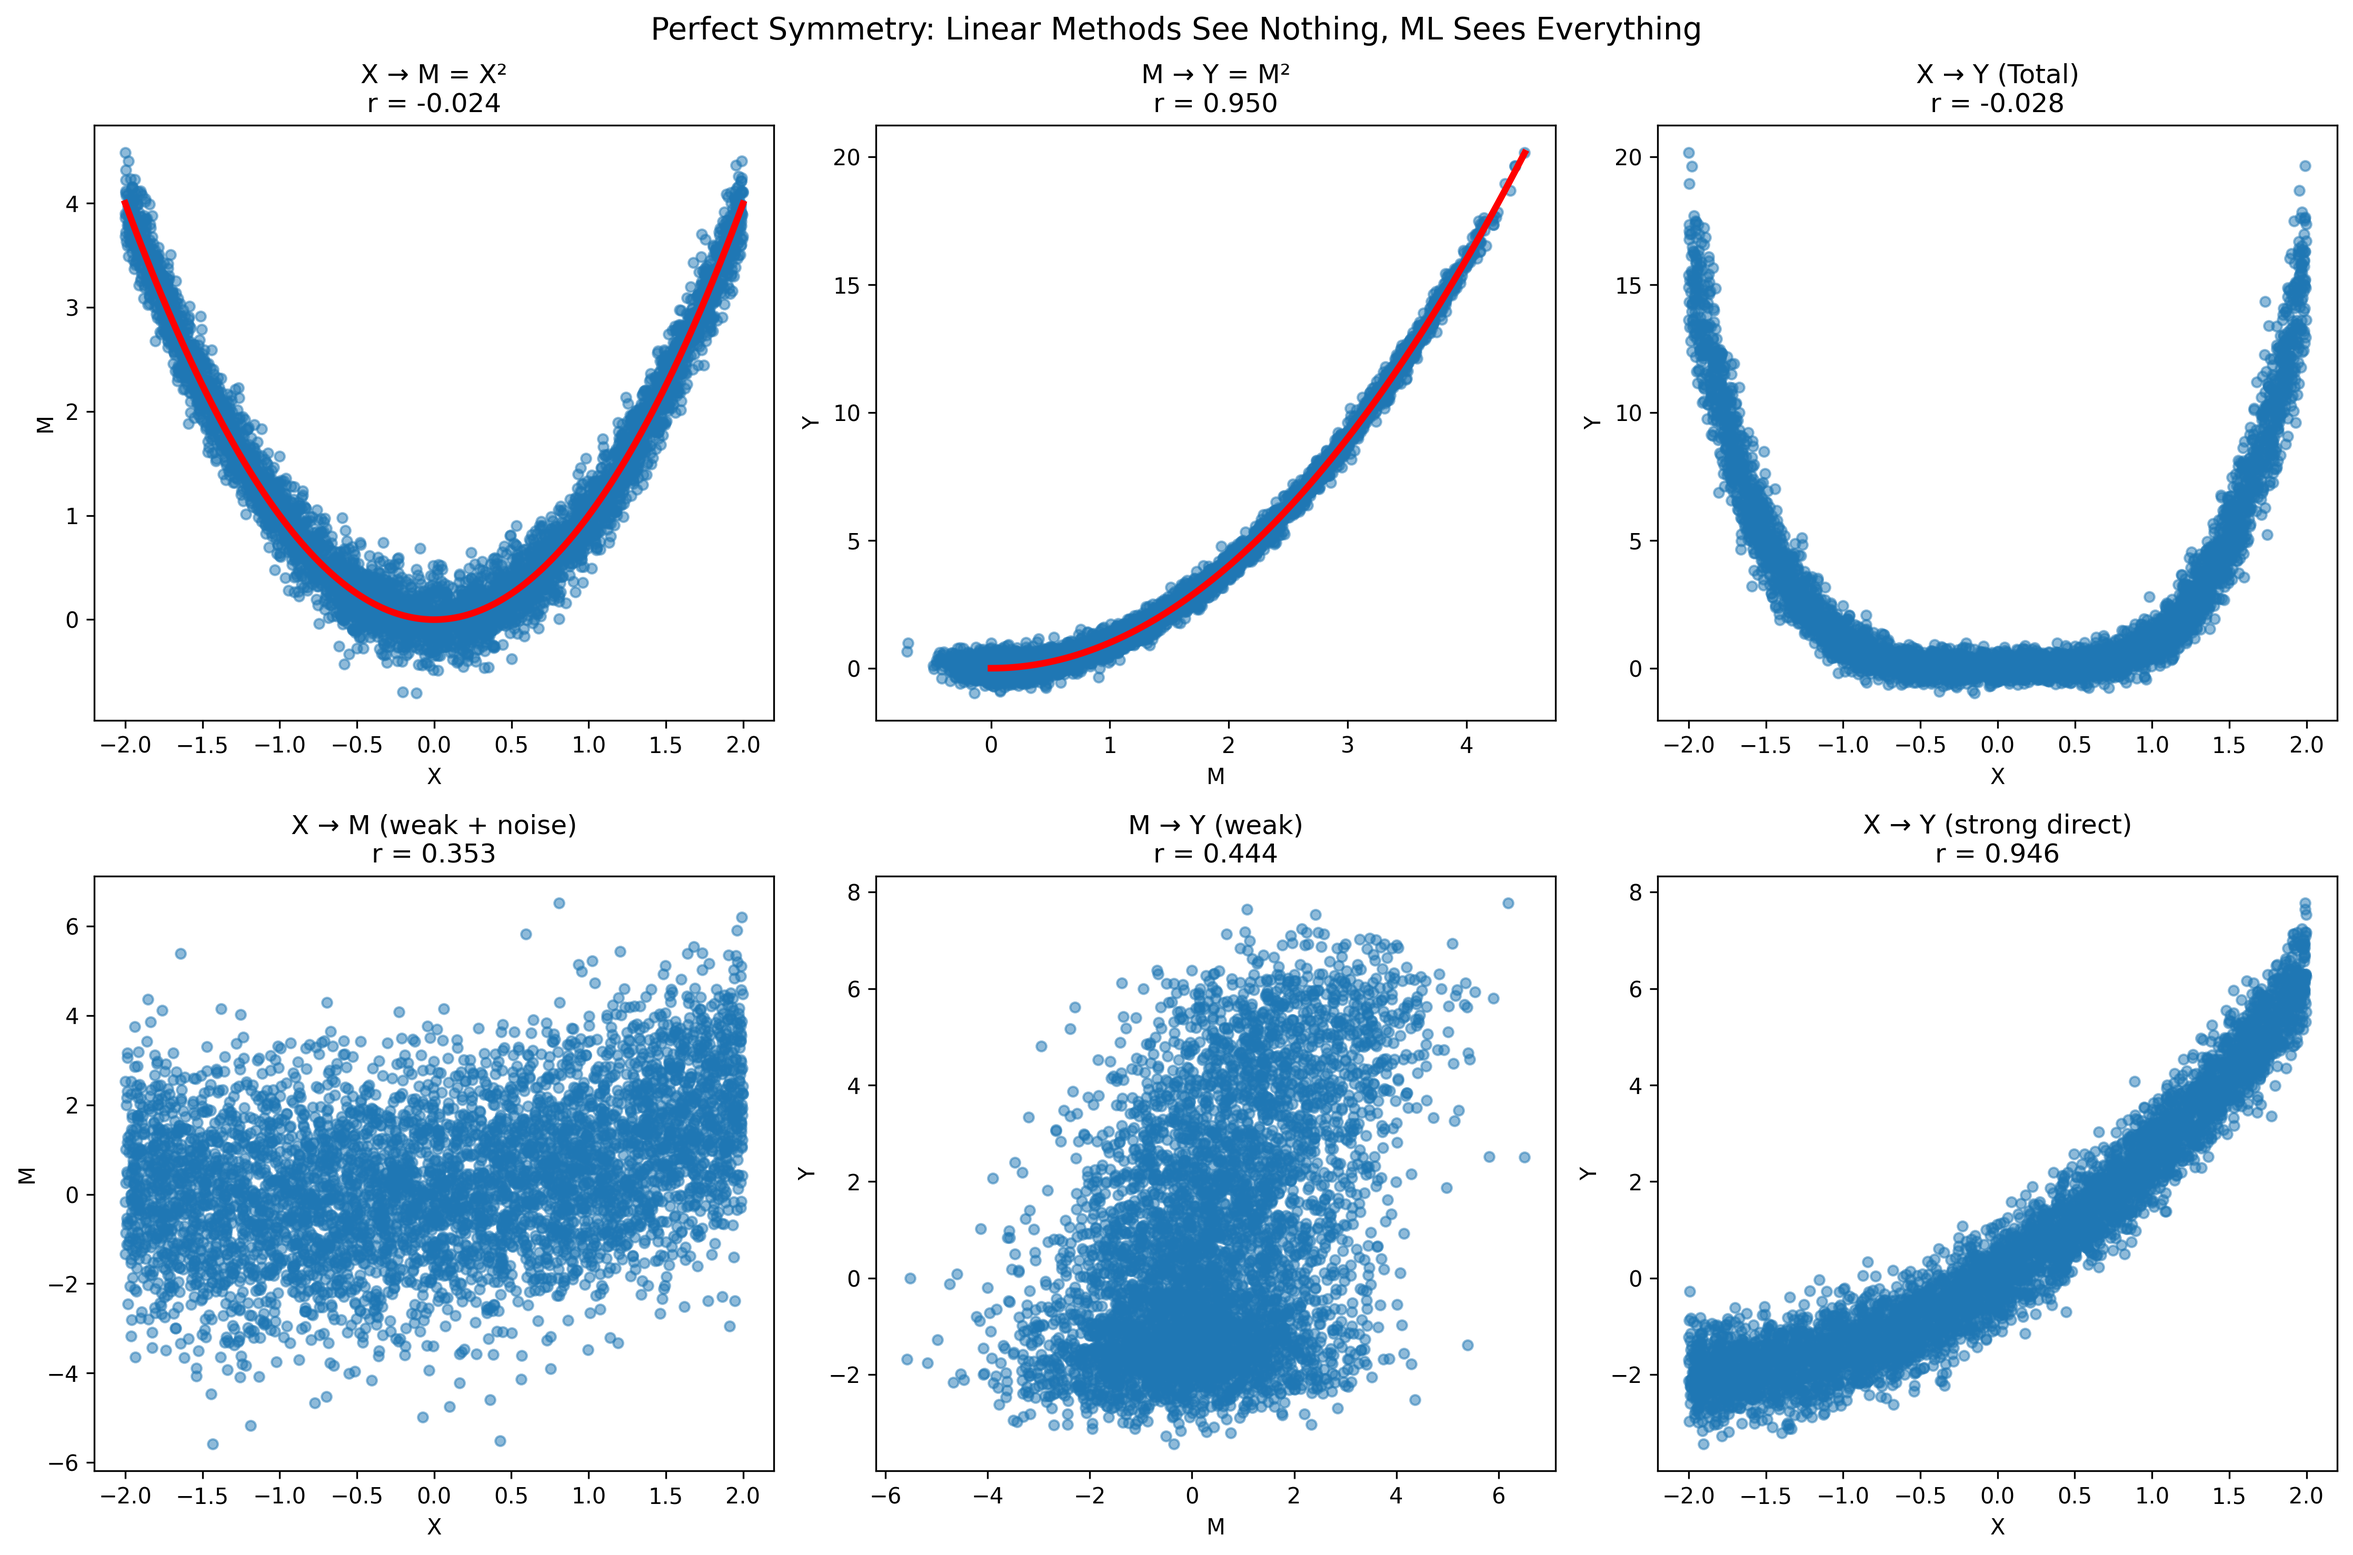
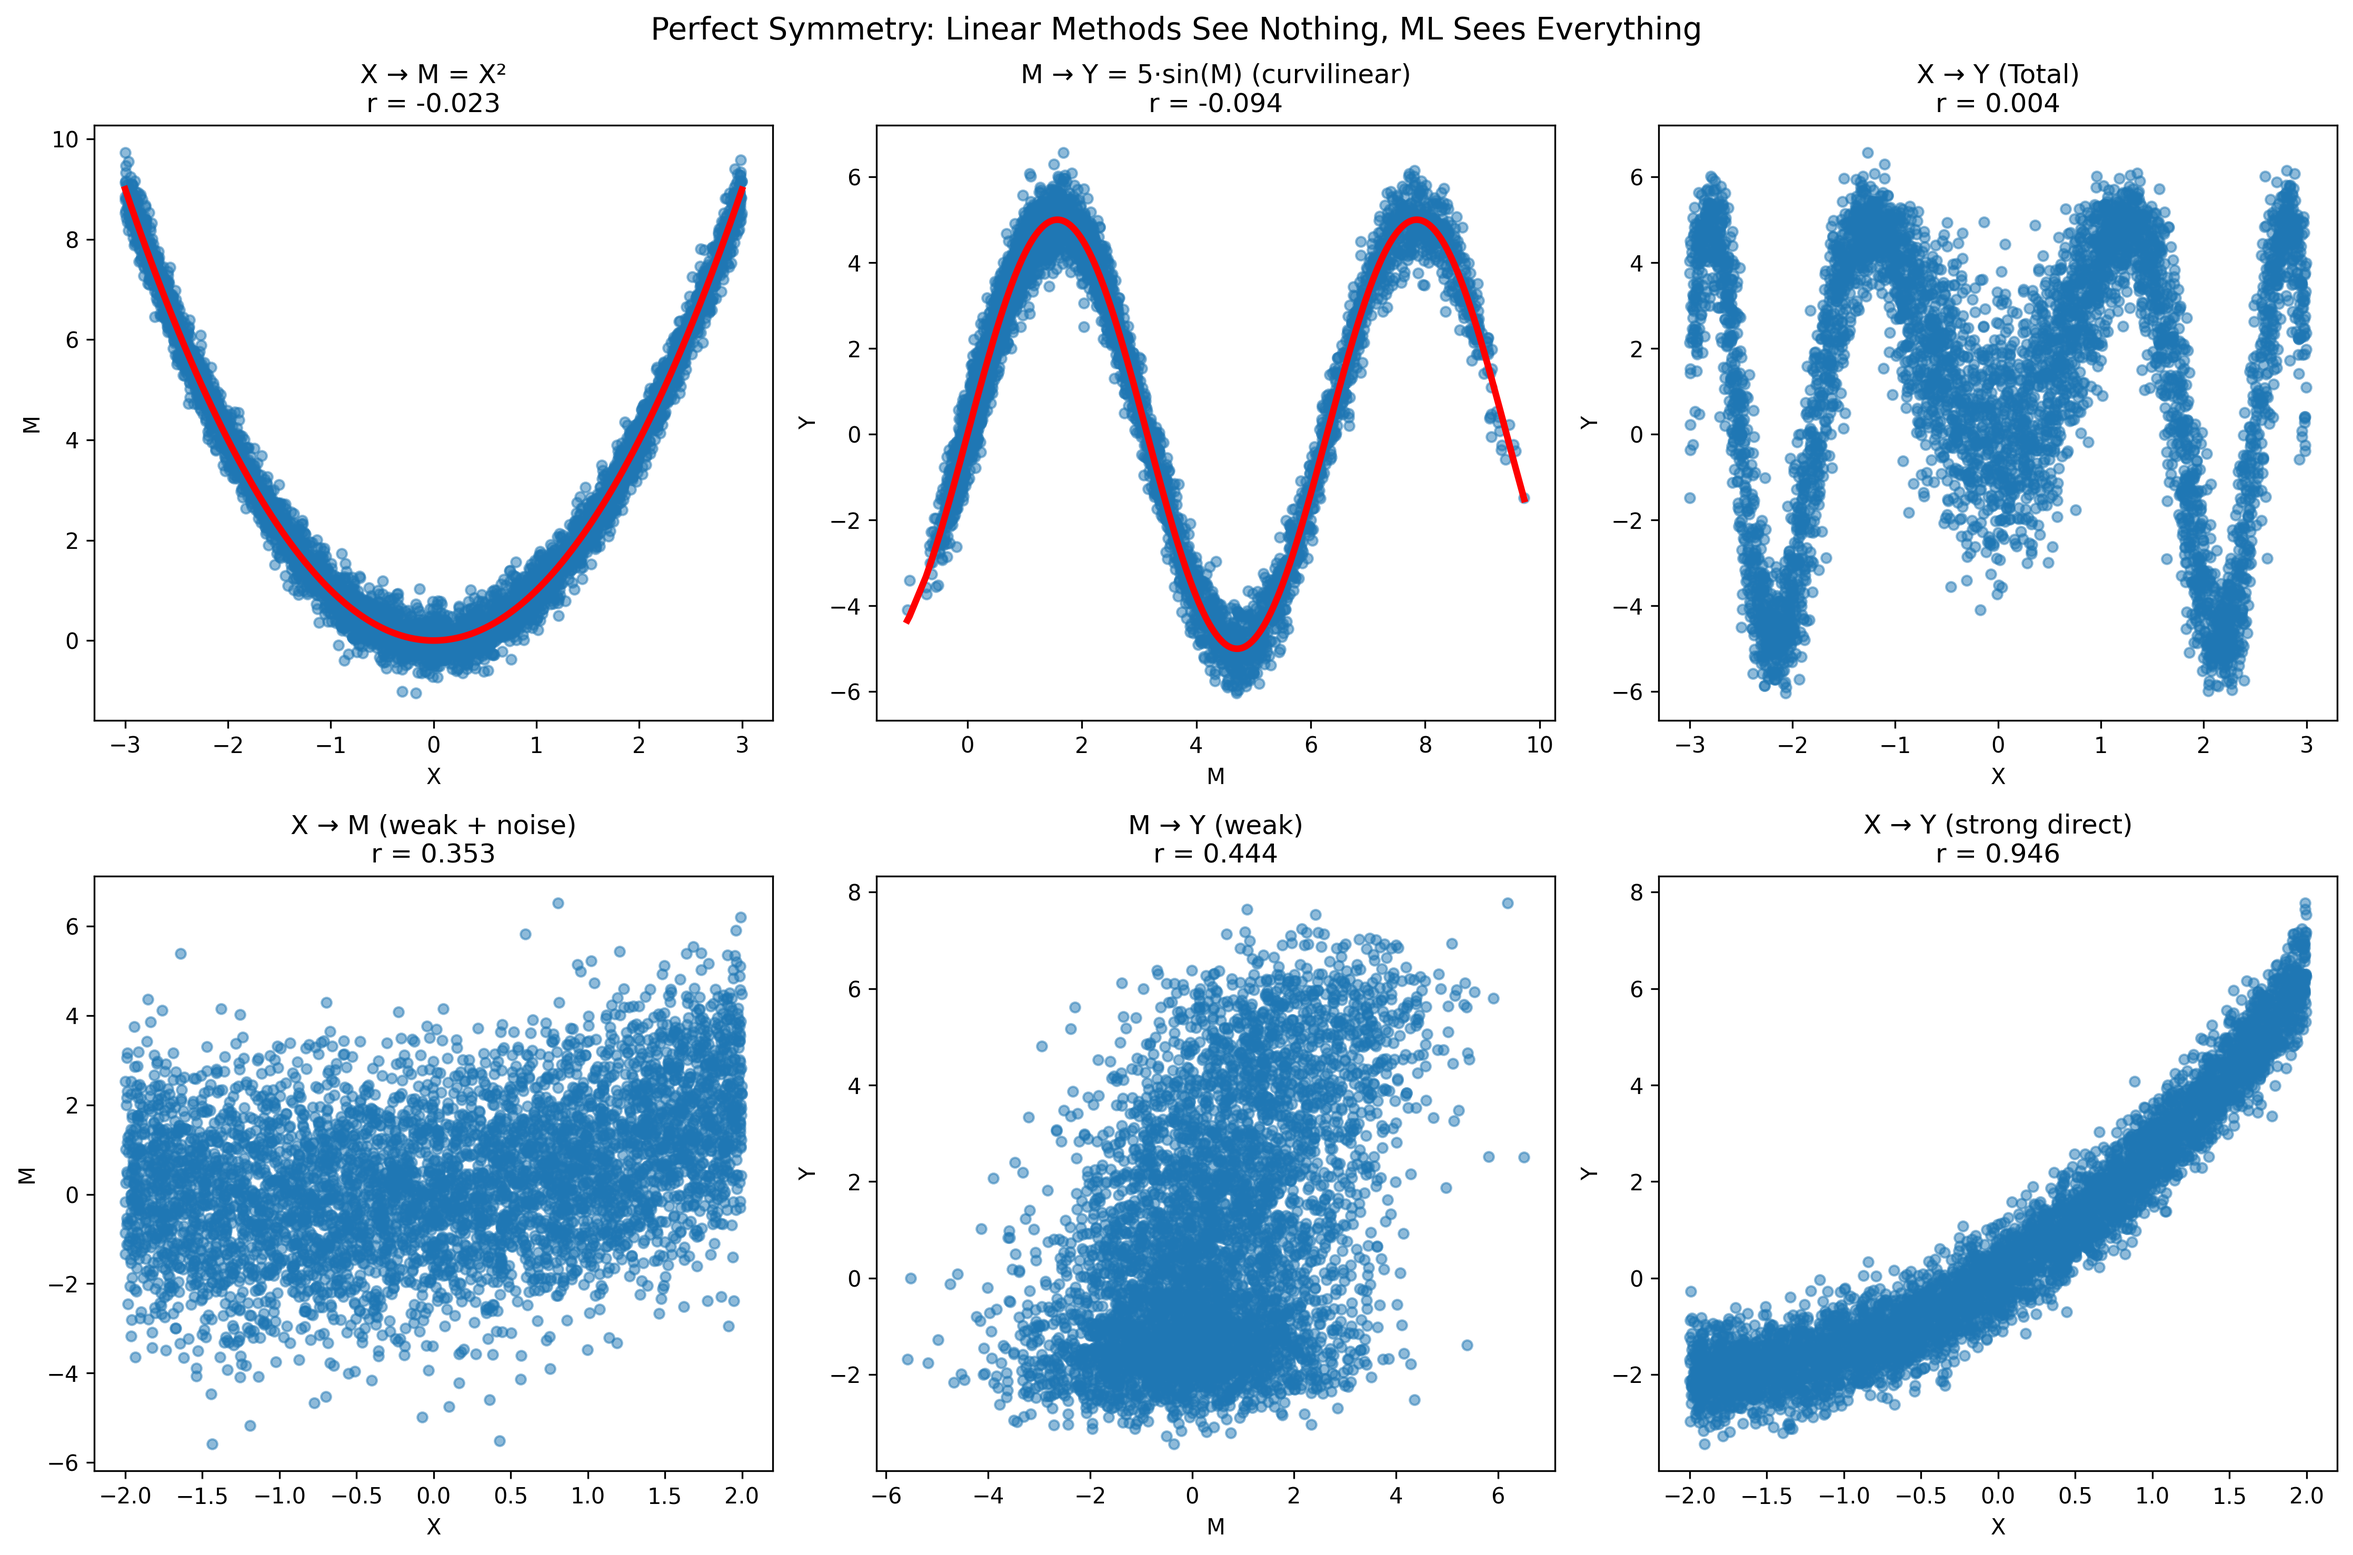
Fix M→Y to be truly curvilinear with ~0 correlation
- Changed Y = 5·sin(M) to create oscillating curvilinear relationship
- This gives Corr(M,Y) ≈ -0.09 (close to 0) vs previous 0.95
- Now BOTH X→M and M→Y are curvilinear with ~0 correlation
- Linear methods see nothing while ML correctly detects mediation

🤖 Generated with [Claude Code](https://claude.ai/code)

diff --git a/demonstrations/test_perfect_symmetry.py b/demonstrations/test_perfect_symmetry.py
@@ -16,22 +16,22 @@ np.random.seed(42)
 def perfect_symmetry_demo(n=5000):
     """Generate perfectly symmetric data with strong mediation"""
     
-    # X uniform from -2 to 2 (perfectly symmetric)
-    X = np.random.uniform(-2, 2, n)
+    # X uniform from -3 to 3 (perfectly symmetric)
+    X = np.random.uniform(-3, 3, n)
     
     # M = X² + small noise (U-shaped relationship)
-    M = X**2 + 0.2 * np.random.randn(n)
+    M = X**2 + 0.3 * np.random.randn(n)
     
-    # Y = (M - 4.5)² + small noise (U-shaped, centered at M=4.5)
-    # This creates a curvilinear relationship where correlation ≈ 0
-    Y = (M - 4.5)**2 + 0.3 * np.random.randn(n)
+    # For Y, we need a relationship that's orthogonal to M
+    # We'll use sin(M) which oscillates and has zero correlation with M
+    Y = 5 * np.sin(M) + 0.5 * np.random.randn(n)
     
     print("SCENARIO 1: PERFECT SYMMETRY - STRONG MEDIATION")
     print("="*60)
     print("Data generation:")
-    print("  X ~ Uniform(-2, 2)")
+    print("  X ~ Uniform(-3, 3)")
     print("  M = X²")
-    print("  Y = (M - 4.5)² (U-shaped, centered at M=4.5)")
+    print("  Y = 5·sin(M) (oscillating, curvilinear)")
     print("  Truth: 100% mediation through M")
     print("  Both relationships are curvilinear with ≈ 0 correlation!")
     
@@ -158,10 +158,10 @@ ax.set_title(f'X → M = X²\nr = {np.corrcoef(X1, M1)[0,1]:.3f}')
 ax = axes[0, 1]
 ax.scatter(M1, Y1, alpha=0.5, s=20)
 m_sorted = np.sort(M1)
-ax.plot(m_sorted, (m_sorted - 4.5)**2, 'r-', linewidth=3)
+ax.plot(m_sorted, 5 * np.sin(m_sorted), 'r-', linewidth=3)
 ax.set_xlabel('M')
 ax.set_ylabel('Y')
-ax.set_title(f'M → Y = (M-4.5)² (U-shaped)\nr = {np.corrcoef(M1, Y1)[0,1]:.3f}')
+ax.set_title(f'M → Y = 5·sin(M) (curvilinear)\nr = {np.corrcoef(M1, Y1)[0,1]:.3f}')
 
 ax = axes[0, 2]
 ax.scatter(X1, Y1, alpha=0.5, s=20)
